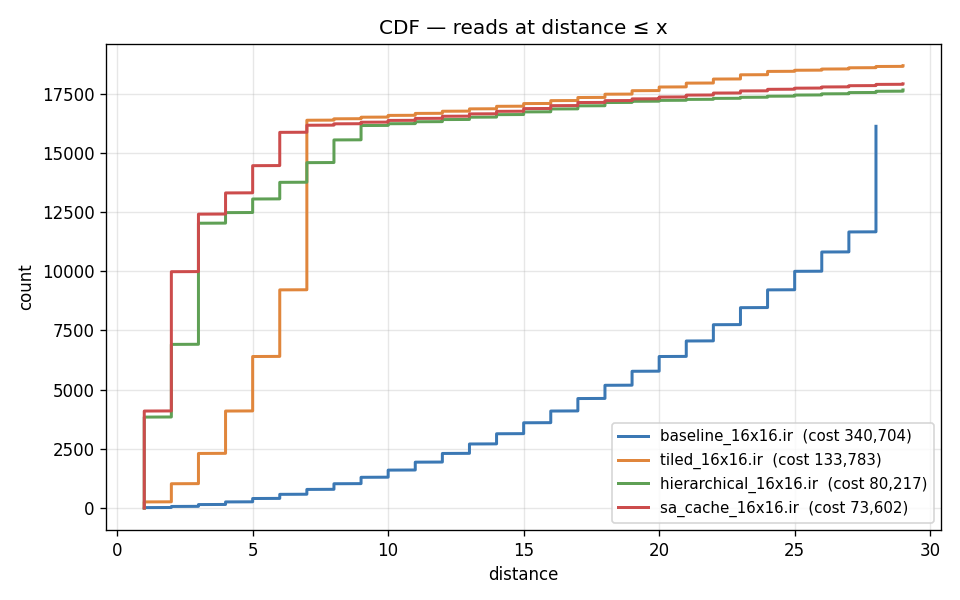
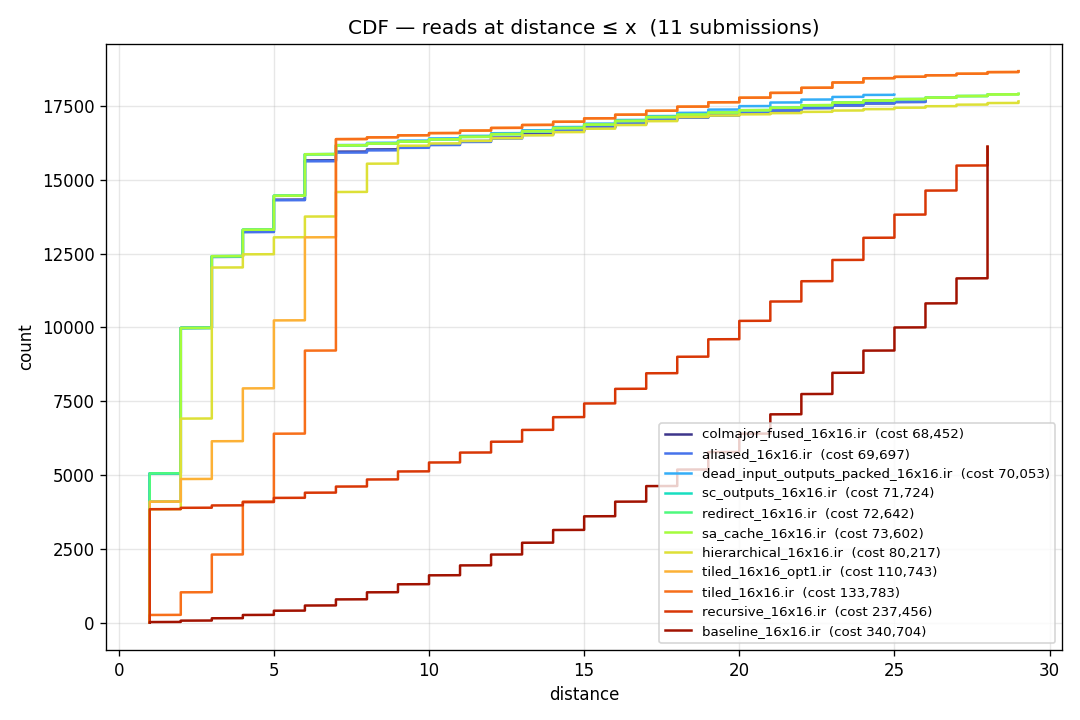
matmul: combined CDF includes all 11 16×16 submissions
Use a turbo colormap and sort legend by cost so the cheapest curves read first.

diff --git a/matmul/doc/access_distance_plots/plot_access_distances.py b/matmul/doc/access_distance_plots/plot_access_distances.py
@@ -35,9 +35,16 @@ import matmul as mm  # noqa: E402
 
 COMBINED = [
     "baseline_16x16.ir",
+    "recursive_16x16.ir",
     "tiled_16x16.ir",
+    "tiled_16x16_opt1.ir",
     "hierarchical_16x16.ir",
     "sa_cache_16x16.ir",
+    "redirect_16x16.ir",
+    "sc_outputs_16x16.ir",
+    "dead_input_outputs_packed_16x16.ir",
+    "aliased_16x16.ir",
+    "colmajor_fused_16x16.ir",
 ]
 
 
@@ -94,20 +101,26 @@ def plot_one(ir_path: Path, out_path: Path) -> int:
 
 
 def plot_combined_cdf(ir_names: List[str], out_path: Path) -> None:
-    fig, ax = plt.subplots(figsize=(8, 5))
-    colors = ["#3b78b4", "#e0863c", "#5fa055", "#cc4c4c"]
-    for name, color in zip(ir_names, colors):
+    fig, ax = plt.subplots(figsize=(9, 6))
+    cmap = plt.get_cmap("turbo")
+    rows = []
+    for name in ir_names:
         ir_path = SUBMISSIONS / name
         distances = np.sort(collect_read_distances(ir_path.read_text()))
-        total = int(distances.sum())
+        rows.append((name, distances, int(distances.sum())))
+    # Sort legend by cost (cheapest first reads bottom→top in stacked order).
+    rows.sort(key=lambda r: r[2])
+    n = len(rows)
+    for i, (name, distances, total) in enumerate(rows):
+        color = cmap(0.05 + 0.9 * i / max(n - 1, 1))
         cumulative = np.arange(1, len(distances) + 1)
         ax.plot(distances, cumulative, label=f"{name}  (cost {total:,})",
-                color=color, linewidth=1.8)
+                color=color, linewidth=1.5)
     ax.set_xlabel("distance")
     ax.set_ylabel("count")
-    ax.set_title("CDF — reads at distance ≤ x")
+    ax.set_title(f"CDF — reads at distance ≤ x  ({n} submissions)")
     ax.grid(alpha=0.3)
-    ax.legend(loc="lower right", fontsize=9)
+    ax.legend(loc="lower right", fontsize=8)
     plt.tight_layout()
     plt.savefig(out_path, dpi=120)
     plt.close(fig)

diff --git a/matmul/doc/access_distance_plots/README.md b/matmul/doc/access_distance_plots/README.md
@@ -9,7 +9,8 @@ Generated by [`plot_access_distances.py`](plot_access_distances.py).
 
 ## Combined CDF — 16×16
 
-Four 16×16 submissions (baseline, tiled, hierarchical, sa_cache) on one axis.
+All 16×16 record-table submissions on one axis (legend sorted by total cost,
+cheapest first).
 
 ![combined_cdf](combined_cdf.png)
 